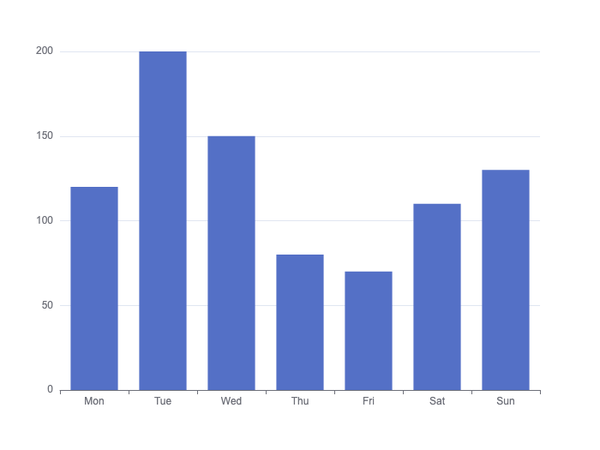
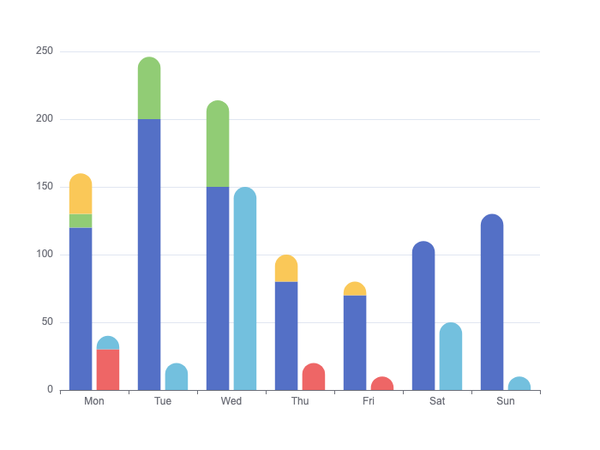
fix: update code for bar-stack-borderRadius

diff --git a/public/examples/ts/bar-stack-borderRadius.ts b/public/examples/ts/bar-stack-borderRadius.ts
@@ -5,20 +5,88 @@ titleCN: 带圆角的堆积柱状图
 difficulty: 3
 */
 
+var series = [
+{
+    data: [120, 200, 150, 80, 70, 110, 130],
+    type: 'bar',
+    stack: 'a',
+    name: 'a'
+},
+{
+    data: [10, 46, 64, '-', 0, '-', 0],
+    type: 'bar',
+    stack: 'a',
+    name: 'b'
+},
+{
+    data: [30, '-', 0, 20, 10, '-', 0],
+    type: 'bar',
+    stack: 'a',
+    name: 'c'
+},
+{
+    data: [30, '-', 0, 20, 10, '-', 0],
+    type: 'bar',
+    stack: 'b',
+    name: 'd'
+},
+{
+    data: [10, 20, 150, 0, '-', 50, 10],
+    type: 'bar',
+    stack: 'b',
+    name: 'e'
+}
+];
+
+const stackInfo: {[key: string]: {stackStart: number[], stackEnd: number[]}} = {};
+for (let i = 0; i < series[0].data.length; ++i) {
+    for (let j = 0; j < series.length; ++j) {
+        const stackName = series[j].stack;
+        if (!stackName) {
+        continue;
+        }
+        if (!stackInfo[stackName]) {
+        stackInfo[stackName] = {
+            stackStart: [],
+            stackEnd: []
+        };
+        }
+        const info = stackInfo[stackName];
+        const data = series[j].data[i];
+        if (data && data !== '-') {
+        if (info.stackStart[i] == null) {
+            info.stackStart[i] = j;
+        }
+        info.stackEnd[i] = j;
+        }
+    }
+}
+for (let i = 0; i < series.length; ++i) {
+const data = series[i].data as number[] | {value: number, itemStyle: object}[];
+const info = stackInfo[series[i].stack];
+for (let j = 0; j < series[i].data.length; ++j) {
+    // const isStart = info.stackStart[j] === i;
+    const isEnd = info.stackEnd[j] === i;
+    const topBorder = isEnd ? 20 : 0;
+    const bottomBorder = 0;
+    data[j] = {
+        value: data[j] as number,
+        itemStyle: {
+            borderRadius: [topBorder, topBorder, bottomBorder, bottomBorder]
+        }
+    };
+}
+}
+
 option = {
     xAxis: {
-      type: 'category',
-      data: ['Mon', 'Tue', 'Wed', 'Thu', 'Fri', 'Sat', 'Sun']
+        type: 'category',
+        data: ['Mon', 'Tue', 'Wed', 'Thu', 'Fri', 'Sat', 'Sun']
     },
     yAxis: {
-      type: 'value'
+        type: 'value'
     },
-    series: [
-      {
-        data: [120, 200, 150, 80, 70, 110, 130],
-        type: 'bar'
-      }
-    ]
-  };
+    series: series as any
+};
 
-  export {};
+export {};

diff --git a/public/examples/ts/bar-background.ts b/public/examples/ts/bar-background.ts
@@ -2,7 +2,7 @@
 title: Bar with Background
 category: bar
 titleCN: 带背景色的柱状图
-difficulty: 0
+difficulty: 1
 */
 
 option = {
